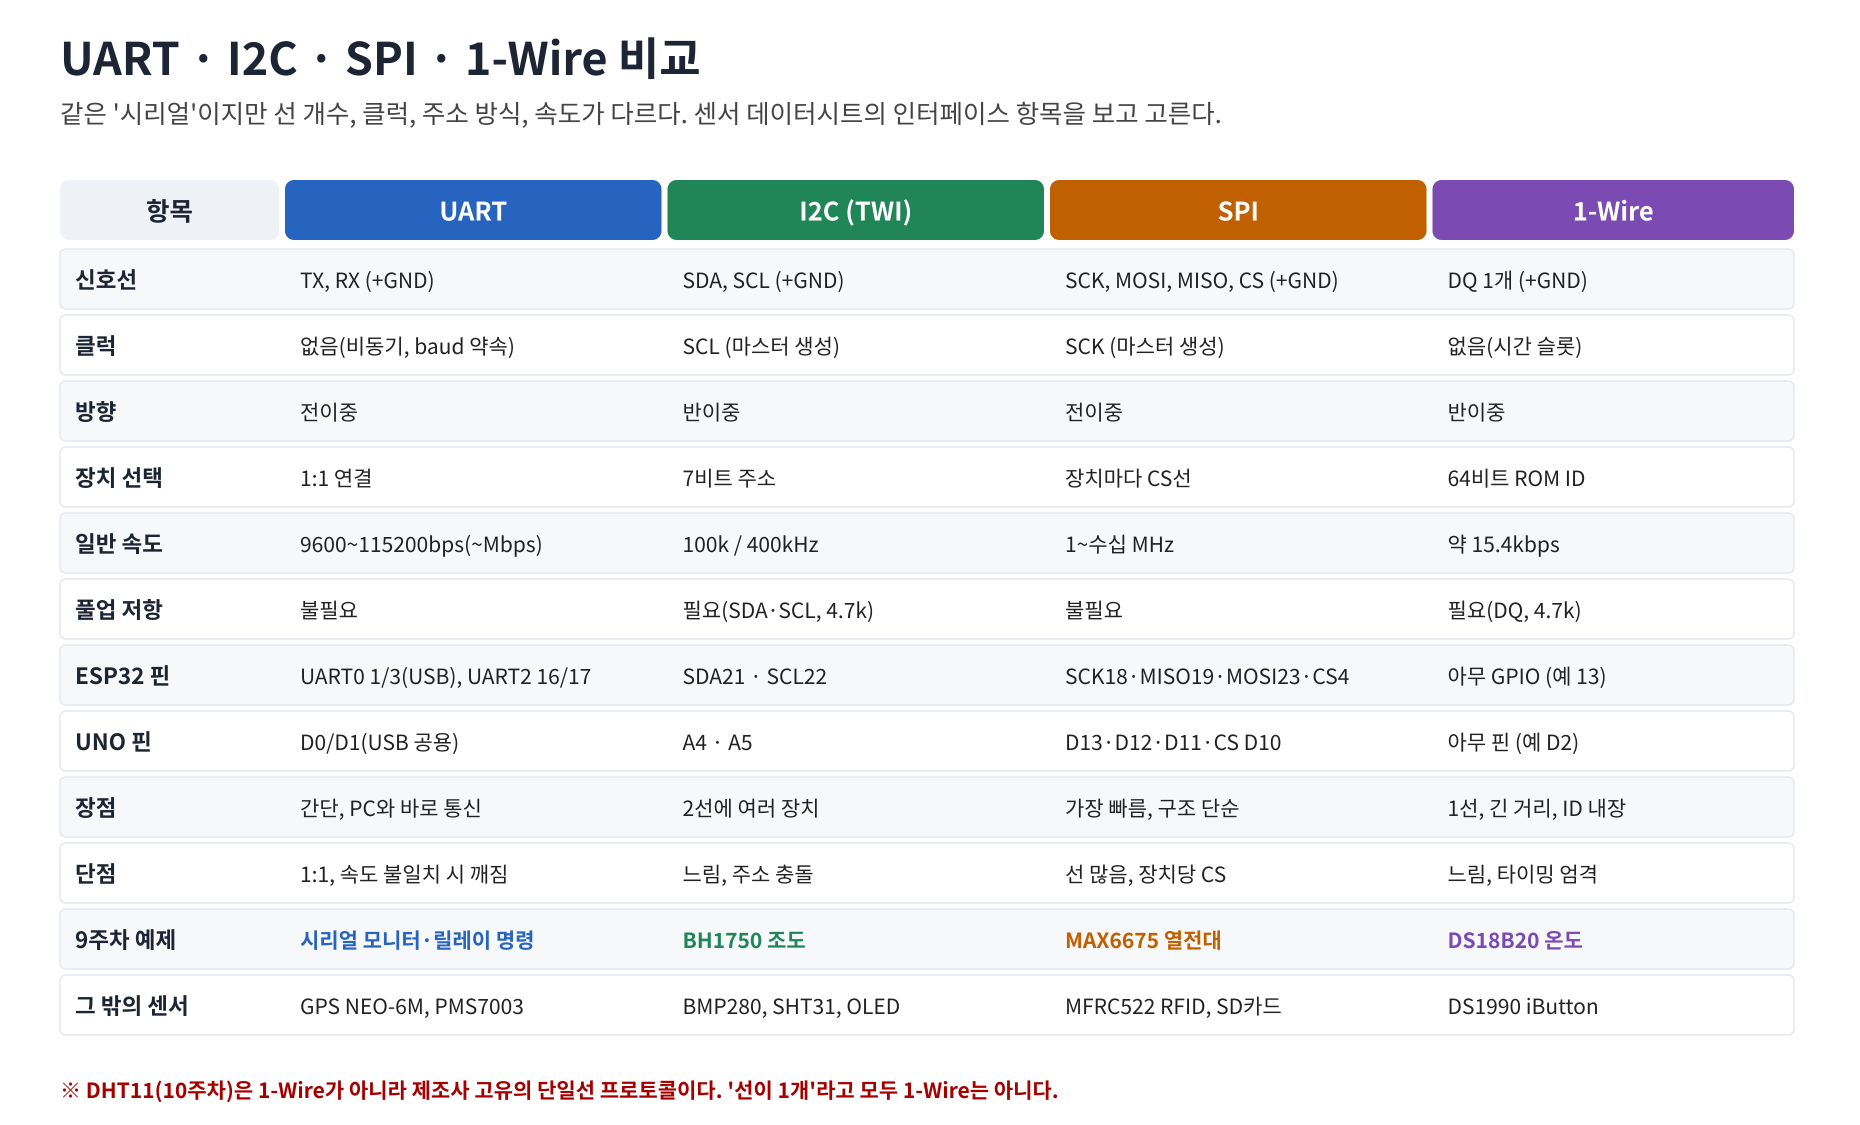
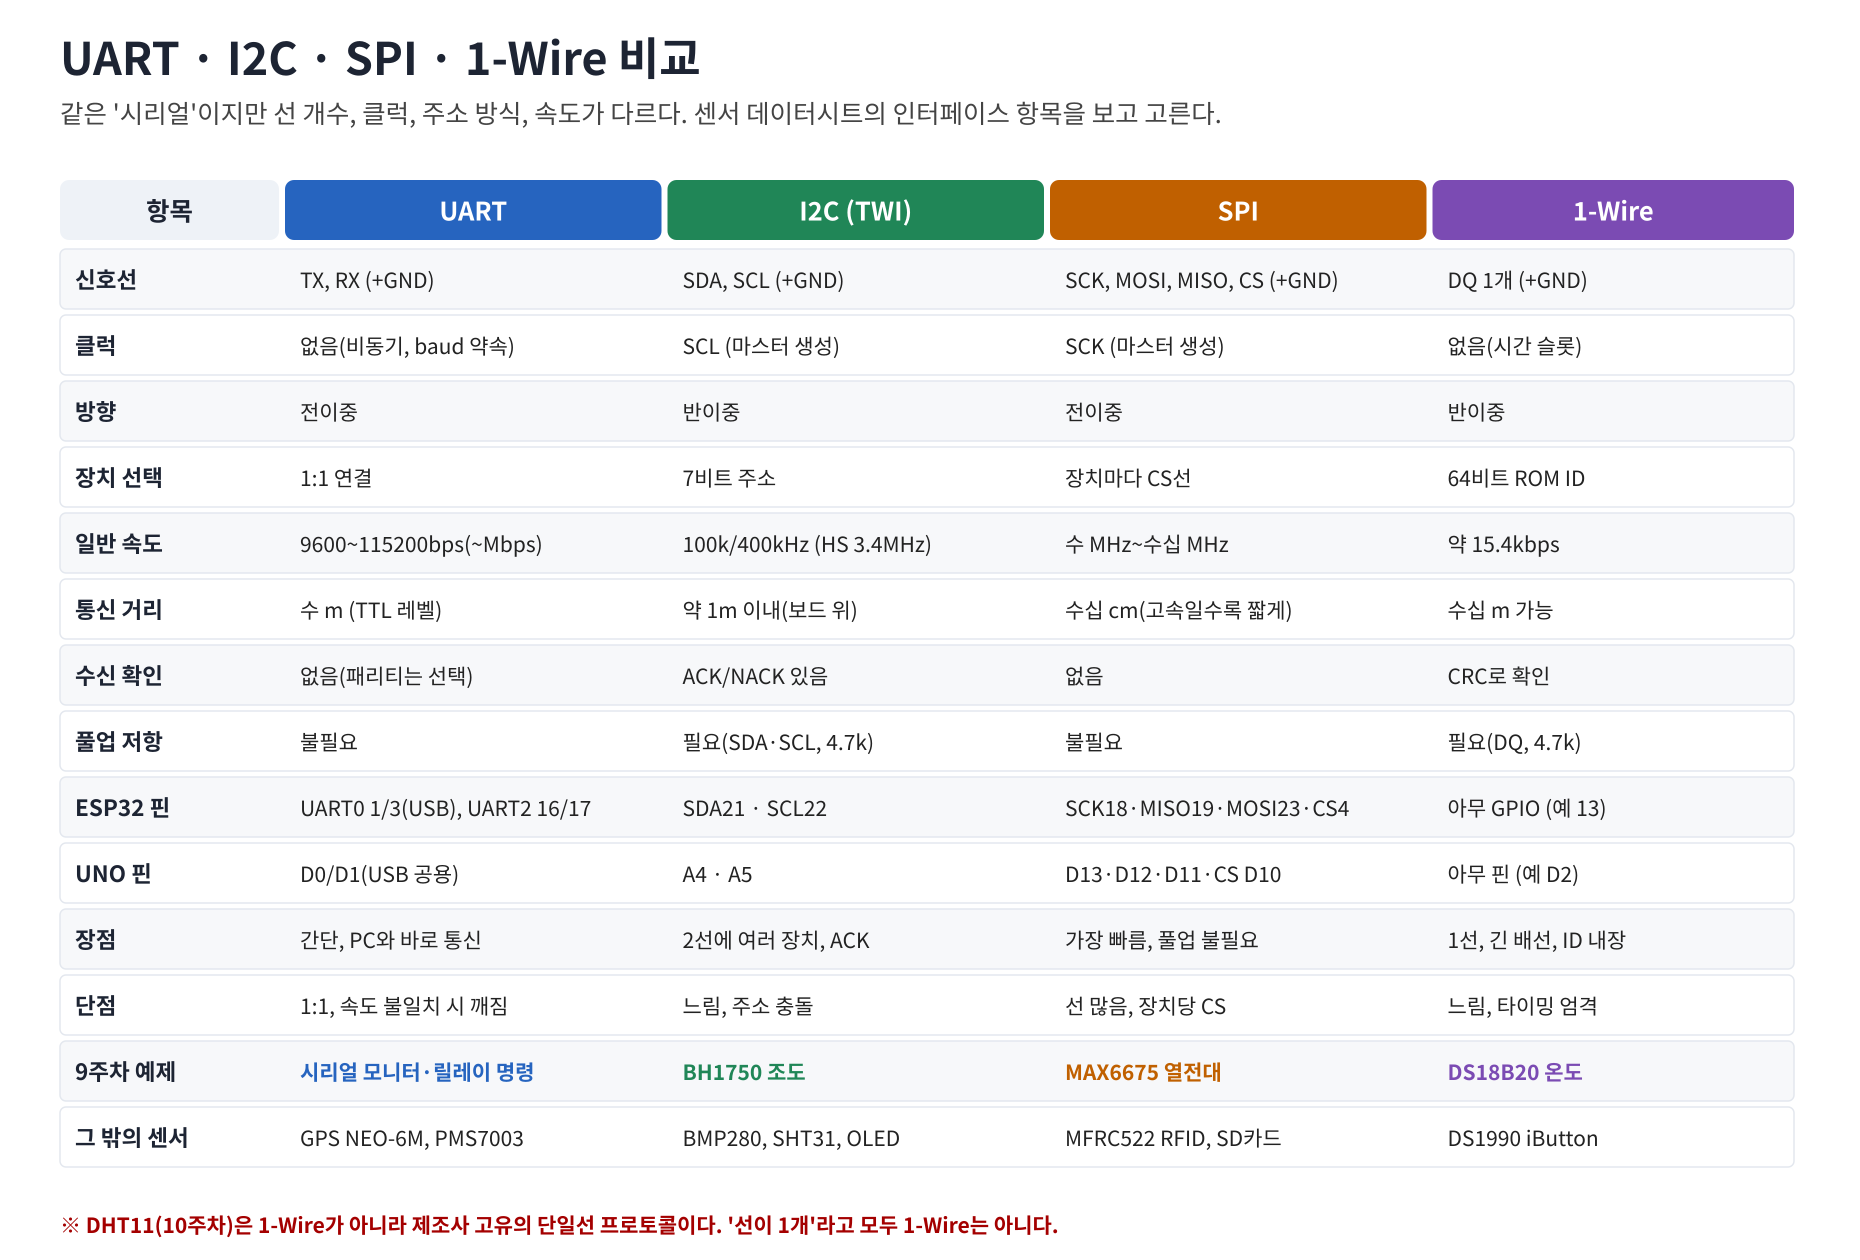
week09: 통신 방식 정리 보강 — 거리·ACK·프레임 옵션·RS-232/485·CAN·선택 기준
- 비교표(s2)에 통신 거리·수신 확인 행 추가, I2C HS 3.4MHz
- 새 그림 s7: 단일 종단 vs 차동, 물리 계층 비교, 방식 선택 기준
- 이론 Part B에 UART 효율·패리티 한계·비트뱅잉, I2C 클럭 스트레칭·속도 모드,
  SPI ACK 없음·푸시풀, 6B절(RS-232/485/CAN), 이해도 문항 4개, 참고 블로그

Claude-Session: https://claude.ai/code/session_01CsedSyxb3LpqaHMSJk71KV

diff --git a/week09/images/gen_serial.py b/week09/images/gen_serial.py
@@ -97,7 +97,7 @@ def common():
 
 # ================================================================ s2 비교표
 def compare():
-    W, H = 1240, 750
+    W, H = 1240, 840
     o = []
     title(o, "UART · I2C · SPI · 1-Wire 비교", "같은 '시리얼'이지만 선 개수, 클럭, 주소 방식, 속도가 다르다. 센서 데이터시트의 인터페이스 항목을 보고 고른다.")
     cols = [("항목", C["ink"]), ("UART", CU), ("I2C (TWI)", CI), ("SPI", CS), ("1-Wire", CW)]
@@ -106,11 +106,13 @@ def compare():
         ("클럭", "없음(비동기, baud 약속)", "SCL (마스터 생성)", "SCK (마스터 생성)", "없음(시간 슬롯)"),
         ("방향", "전이중", "반이중", "전이중", "반이중"),
         ("장치 선택", "1:1 연결", "7비트 주소", "장치마다 CS선", "64비트 ROM ID"),
-        ("일반 속도", "9600~115200bps(~Mbps)", "100k / 400kHz", "1~수십 MHz", "약 15.4kbps"),
+        ("일반 속도", "9600~115200bps(~Mbps)", "100k/400kHz (HS 3.4MHz)", "수 MHz~수십 MHz", "약 15.4kbps"),
+        ("통신 거리", "수 m (TTL 레벨)", "약 1m 이내(보드 위)", "수십 cm(고속일수록 짧게)", "수십 m 가능"),
+        ("수신 확인", "없음(패리티는 선택)", "ACK/NACK 있음", "없음", "CRC로 확인"),
         ("풀업 저항", "불필요", "필요(SDA·SCL, 4.7k)", "불필요", "필요(DQ, 4.7k)"),
         ("ESP32 핀", "UART0 1/3(USB), UART2 16/17", "SDA21 · SCL22", "SCK18·MISO19·MOSI23·CS4", "아무 GPIO (예 13)"),
         ("UNO 핀", "D0/D1(USB 공용)", "A4 · A5", "D13·D12·D11·CS D10", "아무 핀 (예 D2)"),
-        ("장점", "간단, PC와 바로 통신", "2선에 여러 장치", "가장 빠름, 구조 단순", "1선, 긴 거리, ID 내장"),
+        ("장점", "간단, PC와 바로 통신", "2선에 여러 장치, ACK", "가장 빠름, 풀업 불필요", "1선, 긴 배선, ID 내장"),
         ("단점", "1:1, 속도 불일치 시 깨짐", "느림, 주소 충돌", "선 많음, 장치당 CS", "느림, 타이밍 엄격"),
         ("9주차 예제", "시리얼 모니터·릴레이 명령", "BH1750 조도", "MAX6675 열전대", "DS18B20 온도"),
         ("그 밖의 센서", "GPS NEO-6M, PMS7003", "BMP280, SHT31, OLED", "MFRC522 RFID, SD카드", "DS1990 iButton"),
@@ -125,8 +127,9 @@ def compare():
         yy = y + 48 + i * 44
         o.append(rect(40, yy - 2, 1156, 40, "#ffffff" if i % 2 else "#f7f8fa", "#e3e7ee", 1, 4))
         for j, s in enumerate(r):
-            o.append(T(xs[j] + 10, yy + 24, s, 14 if j else 15, "bold" if j == 0 or i == 10 else "normal",
-                       [C["ink"], CU, CI, CS, CW][j] if (j == 0 or i == 10) else "#222"))
+            hl = r[0] == "9주차 예제"
+            o.append(T(xs[j] + 10, yy + 24, s, 14 if j else 15, "bold" if j == 0 or hl else "normal",
+                       [C["ink"], CU, CI, CS, CW][j] if (j == 0 or hl) else "#222"))
     o.append(T(40, H - 18, "※ DHT11(10주차)은 1-Wire가 아니라 제조사 고유의 단일선 프로토콜이다. '선이 1개'라고 모두 1-Wire는 아니다.", 14, "bold", "#a40000"))
     return "s2_serial_compare_ko.svg", svg(W, H, o)
 
@@ -335,6 +338,65 @@ def onewire():
                            "• DHT11은 1-Wire가 아니다(10주차)"]):
         o.append(T(785, 548 + i * 33, s, 14, "bold" if "DHT11" in s else "normal", "#a40000" if "DHT11" in s else "#222"))
     return "s6_onewire_protocol_ko.svg", svg(W, H, o)
+
+
+# ================================================================ s7 물리 계층 확장·선택 기준
+def physical():
+    W, H = 1240, 870
+    o = []
+    title(o, "UART를 멀리 보내기 — TTL · RS-232 · RS-485, 그리고 CAN · 방식 선택 기준",
+          "UART는 '데이터 형식(프레임)'이고, RS-232·RS-485는 그 신호를 멀리 보내는 '전기 규격(물리 계층)'이다. CAN은 차동 2선 위의 메시지 버스.")
+    # 단일 종단 vs 차동
+    card(o, 40, 110, 560, 330, "① 단일 종단(Single-ended) vs 차동(Differential)", C["ink"])
+    import math
+    def noisy(x0, y, bits, col, invert=False, noise=True, w=56, h=46):
+        pts = []
+        for i, b in enumerate(bits):
+            b = 1 - b if invert else b
+            for k in range(8):
+                x = x0 + i * w + k * w / 8
+                n = 9 * math.sin((x - x0) / 9.0) if noise else 0
+                pts.append((x, y - (h / 2 if b else -h / 2) + n))
+        o.append(line(pts, col, 2.5, cap="butt"))
+    bits = [1, 0, 1, 1, 0, 1, 0, 0]
+    o.append(T(70, 175, "단일 종단(TTL UART, RS-232): 신호 − GND", 14, "bold", CU))
+    noisy(80, 220, bits, CU)
+    o.append(T(70, 270, "→ 잡음이 그대로 신호에 더해진다", 13, fill="#555"))
+    o.append(T(70, 305, "차동(RS-485, CAN): A − B 두 선의 차이", 14, "bold", CI))
+    noisy(80, 345, bits, CI); noisy(80, 345, bits, "#c06000", invert=True)
+    o.append(T(70, 405, "→ 두 선에 같은 잡음이 들어와도 A−B에서 상쇄(공통 모드 제거)", 13, fill="#555"))
+    o.append(T(70, 428, "   꼬임선(Twisted pair) + 양 끝 120Ω 종단 저항", 13, fill="#555"))
+    # 표
+    card(o, 620, 110, 580, 330, "② 물리 계층 비교", C["ink"])
+    rows = [("", "TTL UART", "RS-232", "RS-485", "CAN"),
+            ("신호", "0/3.3V·5V", "±3~15V 역논리", "차동 A/B", "차동 H/L"),
+            ("구조", "1:1", "1:1", "다중(32대)", "다중 마스터"),
+            ("거리", "수 m", "약 15m", "약 1200m", "40m@1M"),
+            ("속도", "~Mbps", "~115kbps", "~10Mbps(단거리)", "1M(FD 8M)"),
+            ("칩", "직결", "MAX3232", "MAX485", "SN65HVD230"),
+            ("용도", "센서·디버그", "PLC·구형 장비", "Modbus·산업", "자동차·로봇")]
+    xs = [640, 700, 820, 940, 1070]
+    for i, r in enumerate(rows):
+        y = 170 + i * 38
+        if i == 0: o.append(rect(632, y - 22, 560, 30, "#eef2f7", "none", 0, 4))
+        for j, t in enumerate(r):
+            o.append(T(xs[j], y, t, 13, "bold" if i == 0 or j == 0 else "normal", C["ink"]))
+    o.append(T(640, 432, "ESP32: UART2+MAX3485(RS-485), 내장 TWAI+트랜시버(CAN)", 12, fill="#555"))
+    # 선택 기준
+    card(o, 40, 460, 1160, 380, "③ 어떤 방식을 고를까 — 정답은 '데이터시트가 지원하는 것' + 아래 기준", C["ink"])
+    choices = [("속도가 최우선(화면·SD·고속 ADC)", "SPI", CS), ("핀을 아끼며 저속 센서 여러 개", "I2C", CI),
+               ("PC·모듈과 1:1, 디버그 출력", "UART", CU), ("센서 여러 개를 긴 선 하나로(온도)", "1-Wire", CW),
+               ("수십~수백 m, 산업 현장 다수 장치", "RS-485", "#555"), ("실시간·고신뢰 다중 노드(차량)", "CAN", "#555")]
+    for i, (q, a, col) in enumerate(choices):
+        y = 552 + i * 50
+        o.append(rect(70, y - 26, 560, 40, "#fff", "#c9ced6", 1.5, 8)); o.append(T(90, y, q, 15))
+        o += arrow(640, y - 6, 700, y - 6, "#333", 2.5)
+        o.append(rect(710, y - 26, 130, 40, col, "none", 0, 8)); o.append(T(775, y, a, 16, "bold", "white", "middle"))
+    for i, t in enumerate(["• 실제 제품은 여러 방식을 섞어 쓴다", "  (예: I2C 센서 + SPI 화면 + UART GPS)",
+                           "• I2C로 큰 화면을 빠르게 갱신하려다", "  속도 한계로 실패하는 경우가 흔하다",
+                           "• 거리가 늘면 속도를 낮추거나", "  차동 규격으로 바꾼다"]):
+        o.append(T(880, 552 + i * 30, t, 14, "bold" if t.startswith("•") else "normal"))
+    return "s7_physical_layer_selection_ko.svg", svg(W, H, o)
 
 
 # ================================================================ 연결도 공통
@@ -557,7 +619,7 @@ def w_ow():
 
 if __name__ == "__main__":
     os.makedirs(OUT, exist_ok=True)
-    for f in (common, compare, uart, i2c, spi, onewire, lambda: w_relay("esp32"), lambda: w_relay("uno"), w_loopback, w_i2c, w_spi, w_ow):
+    for f in (common, compare, physical, uart, i2c, spi, onewire, lambda: w_relay("esp32"), lambda: w_relay("uno"), w_loopback, w_i2c, w_spi, w_ow):
         n, s = f()
         open(os.path.join(OUT, n), "w", encoding="utf-8").write(s)
         print(n)

diff --git a/week09/theory/02_serial_comm.md b/week09/theory/02_serial_comm.md
@@ -33,7 +33,10 @@
 | 항목 | UART | I2C | SPI | 1-Wire |
 |---|---|---|---|---|
 | 신호선 | TX, RX | SDA, SCL | SCK, MOSI, MISO, CS | DQ |
-| 일반 속도 | 9600~115200bps (최대 수 Mbps) | 100k / 400kHz | 1~수십 MHz | 약 15.4kbps |
+| 일반 속도 | 9600~115200bps (최대 수 Mbps) | 100k / 400kHz (High-speed 3.4MHz) | 수 MHz~수십 MHz | 약 15.4kbps |
+| 통신 거리 | 수 m (TTL 레벨) | 약 1m 이내 | 수십 cm (고속일수록 짧게) | 수십 m 가능 |
+| 수신 확인 | 없음 (패리티는 선택, 1비트 오류만 검출) | ACK/NACK | 없음 | CRC |
+| 출력 구조 | 푸시풀 | 오픈 드레인 + 풀업 | 푸시풀(풀업 불필요) | 오픈 드레인 + 풀업 |
 | 연결 구조 | 1:1 | 버스, 최대 100여 개 | 버스 + 장치별 CS | 버스, 개수 제한 거의 없음 |
 | 장점 | 간단, PC와 바로 통신 | 2선으로 여러 장치 | 가장 빠름 | 1선, 긴 배선, ID 내장 |
 | 단점 | 1:1, baud 불일치 시 오류 | 느림, 주소 충돌, 짧은 거리 | 선이 많음 | 느림, 타이밍 엄격 |
@@ -50,6 +53,10 @@
 
 - 쉬는 상태 HIGH → **START 비트(LOW)** → 데이터 8비트(**LSB 먼저**) → (패리티) → **STOP 비트(HIGH)**. 이것을 **8N1**이라 한다.
 - 1비트 시간 = 1/baud. 115200bps → 8.68µs, 프레임 10비트 → 초당 약 11,520바이트.
+- 프레임 옵션: 데이터 5~8비트, 패리티 None/Even/Odd, 정지 비트 1/1.5/2. 8N1은 10비트 중 8비트가 데이터 → **효율 약 80%**.
+- 패리티는 1의 개수만 보므로 1비트 오류만 검출한다(2비트 오류는 못 찾음). 수신 확인(ACK)도 없다 → 필요하면 응답 메시지(`OK`, `ERR`)를 프로토콜로 만든다(워크북 5).
+- 하드웨어 UART가 없어도 GPIO를 직접 켜고 끄는 **비트 뱅잉**(UNO의 SoftwareSerial)으로 구현할 수 있다.
+- 쓰임: 디버그 출력, GPS(NMEA 문장), 블루투스·Wi-Fi·LoRa 모듈(AT 명령), USB-시리얼 변환.
 - 연결: **TX → 상대 RX, RX ← 상대 TX** (교차), GND 공통. 전압 레벨이 다르면(5V↔3.3V, RS-232 ±12V) 직결 금지.
 - 시리얼 모니터 경로: PC 앱 ⇄ USB ⇄ USB-UART 브리지 ⇄ UART0(GPIO1/3) ⇄ ESP32.
   - `Serial.print()` = 송신, `Serial.available()`/`Serial.read()` = 수신.
@@ -62,7 +69,12 @@
 
 - SDA(데이터)·SCL(클럭) 두 선에 여러 장치를 병렬로 연결한다. 선은 **풀업 저항**(보통 4.7kΩ, 모듈에 내장)이 HIGH로 당기고, 장치는 LOW로만 끌어내린다(오픈 드레인).
 - 순서: **START**(SCL=H일 때 SDA↓) → 7비트 **주소** + R/W → **ACK**(받는 쪽이 SDA LOW) → 데이터 바이트 + ACK … → **STOP**(SCL=H일 때 SDA↑).
-- 같은 주소의 장치가 둘이면 충돌 → ADDR 핀으로 주소를 바꾼다(BH1750: 0x23 ↔ 0x5C).
+- 같은 주소의 장치가 둘이면 충돌 → ADDR 핀으로 주소를 바꾼다(BH1750: 0x23 ↔ 0x5C). 주소는 7비트가 일반적이며 10비트 주소 모드도 있다.
+- 속도 모드: Standard 100kHz, Fast 400kHz, (Fast-mode Plus 1MHz), High-speed 3.4MHz — 실제 사용 속도는 MCU와 센서가 함께 지원하는 값.
+- **클럭 스트레칭**: 슬레이브가 준비되지 않으면 SCL을 LOW로 붙잡아 마스터를 기다리게 한다.
+- **멀티 마스터** 구성도 규격상 가능하다(중재 기능).
+- 버스 길이·장치 수가 늘면 선의 정전 용량이 커져 상승 에지가 느려진다 → 보드 위 약 1m 이내, 길어지면 속도를 낮추거나 풀업을 조정한다.
+- 쓰임: 온습도·기압·조도 센서, RTC, EEPROM, 소형 OLED.
 - Arduino `Wire`: `beginTransmission(addr)` → `write()` → `endTransmission()`(0이면 ACK) / `requestFrom(addr, n)` → `read()`.
 
 ## 5. SPI — 4선 고속 동기식
@@ -74,6 +86,9 @@
 - 클럭 1번에 1비트를 동시에 주고받는 **전이중**. 수 MHz~수십 MHz로 가장 빠르다.
 - **모드 0~3**: 클럭 극성(CPOL)과 읽는 에지(CPHA)의 조합. 데이터시트의 모드를 `SPISettings`에 맞춘다(MAX6675 = 모드 0).
 - ESP32 VSPI 기본 SS는 GPIO5(부팅 스트랩 핀) → 9주차는 CS로 GPIO4를 쓴다(CS는 아무 출력 GPIO 가능).
+- 출력이 푸시풀이라 풀업이 필요 없고 버스 충돌이 없다. 대신 **ACK가 없어** 장치가 없어도 0x00/0xFF를 '읽어 버린다' → 예제 7에서 0x0000/0xFFFF를 오류로 처리하는 이유.
+- 제조사마다 모드·비트 순서·CS 타이밍이 조금씩 달라 데이터시트 확인이 필수다.
+- 쓰임: TFT LCD, SD카드, SPI 플래시, 고속 ADC/DAC, IMU.
 
 ## 6. 1-Wire — 1선 버스, 64비트 ID
 
@@ -84,6 +99,37 @@
 - 장치마다 공장에서 정해진 **64비트 ROM ID**(패밀리 코드 + 일련번호 + CRC) → 한 선에 여러 개 연결해도 구별된다.
 - 명령 흐름: RESET → ROM 명령(0x55 MATCH ROM+ID 또는 0xCC SKIP ROM) → 기능 명령(DS18B20: 0x44 변환, 0xBE 읽기) → 데이터 + CRC.
 - 타이밍이 µs 단위로 엄격하므로 `OneWire` 라이브러리가 비트 단위 처리를 맡고, 예제는 바이트 명령을 직접 보낸다.
+
+## 6B. UART를 멀리 보내기 — RS-232 · RS-485, 그리고 CAN (확장 지식)
+
+![물리 계층과 선택 기준](../images/s7_physical_layer_selection_ko.png)
+
+UART는 **데이터 형식(프레임)**이고, RS-232·RS-485는 그 신호를 멀리 보내는 **전기 규격(물리 계층)**이다. 보드의 TX/RX(TTL 레벨)를 변환 칩으로 바꿔 쓴다.
+
+| 항목 | TTL UART | RS-232 | RS-485 | CAN |
+|---|---|---|---|---|
+| 신호 | 0V / 3.3V·5V, 단일 종단 | 약 ±3~±15V, 단일 종단, **역논리**(음전압=1) | 차동 A/B (A−B ≥ +200mV=1) | 차동 CAN_H/CAN_L, 우성(0)/열성(1) |
+| 구조 | 1:1 | 1:1 | 멀티 드롭, 기본 32대 | 멀티 마스터, 메시지 ID 기반 |
+| 거리·속도 | 수 m | 약 15m, ~115kbps | 약 1200m(저속) / 단거리 ~10Mbps | 약 40m@1Mbps, 약 1km@50kbps |
+| 배선 | 3선 | 3선(+핸드셰이크 RTS/CTS 등), DB9 | 꼬임선 2선(반이중) 또는 4선, 양 끝 120Ω | 꼬임선 2선, 양 끝 120Ω |
+| 변환 칩 예 | 직결 | MAX3232 | MAX485/MAX3485 | SN65HVD230(3.3V) |
+| 상위 프로토콜·용도 | 디버그, 센서 모듈 | PLC·CNC·장비 콘솔 | Modbus RTU, 인버터, 빌딩·농업 센서 | 자동차 ECU, OBD-II, CANopen, 로봇 |
+
+- **차동 신호**: 두 선에 같은 잡음이 들어와도 A−B 차이에서 상쇄된다(공통 모드 제거) → 먼 거리·공장 환경에 강하다.
+- **CAN**: 0(우성)이 1(열성)을 이기는 성질로 ID가 작은 메시지가 충돌 없이 우선 전송된다(비트 단위 중재). 같은 비트 5개 연속 시 반대 비트를 끼우는 비트 스터핑, 자동 재전송 기능이 있다. 데이터는 CAN 2.0 최대 8바이트, CAN FD 최대 64바이트.
+- ESP32는 CAN 컨트롤러(TWAI)를 내장해 트랜시버만 달면 되고, UNO는 MCP2515(SPI) 모듈이 필요하다. RS-485는 ESP32 UART2에 MAX3485를 연결한다. (9주차는 개념만, 실습은 확장 과제)
+
+### 방식 선택 기준
+| 상황 | 선택 |
+|---|---|
+| 속도 최우선(화면, SD카드, 고속 ADC) | SPI |
+| 핀을 아끼며 저속 센서 여러 개 | I2C |
+| PC·모듈과 1:1, 디버그 | UART |
+| 센서 여러 개를 긴 선 하나로(온도) | 1-Wire |
+| 수십~수백 m, 산업 현장 다수 장치 | RS-485 |
+| 실시간·고신뢰 다중 노드(차량·로봇) | CAN |
+
+완벽한 방식은 없고 실제 제품은 여러 방식을 섞어 쓴다(예: I2C 센서 + SPI 화면 + UART GPS). 예컨대 I2C로 큰 화면을 빠르게 갱신하려다 속도 한계로 실패하는 일이 흔하다 — 데이터 양과 거리를 먼저 따진다.
 
 ## 7. 9주차 시리얼 예제 목록
 
@@ -106,8 +152,14 @@
 6. 1-Wire에서 여러 센서를 한 선에 연결해도 구별되는 이유는?
 7. DHT11이 1-Wire가 아닌 이유는?
 8. 시리얼 모니터에서 `ON`을 보냈는데 반응이 없다. 확인할 설정 두 가지는? (baud, 줄 끝)
+9. 8N1 UART의 전송 효율은? 패리티가 찾지 못하는 오류는?
+10. SPI에는 ACK가 없다. 센서가 빠져도 값이 '읽히는' 이유와 코드에서 대처하는 방법은?
+11. UART와 RS-485의 관계를 '프레임'과 '물리 계층'으로 설명하라. RS-485가 먼 거리에 강한 이유는?
+12. 다음 상황에 알맞은 방식은? ① 2.4인치 TFT 화면 ② 온실 20개 지점 온도 ③ 공장 300m 떨어진 장비 ④ GPS 모듈
 
 ## 참고
+- 통신 방식 정리(참고 블로그): https://doyun98.tistory.com/127 — I2C·SPI·UART·RS-232·RS-485·CAN 비교, 선택 기준
+- 통신 방식 정리(참고 블로그): https://m.blog.naver.com/crucian2k3/222642389070 — (작성 환경에서 접근 불가, 수업 전 교수자 확인)
 - Arduino Serial: https://docs.arduino.cc/language-reference/en/functions/communication/serial/
 - Arduino Wire: https://docs.arduino.cc/language-reference/en/functions/communication/wire/
 - Arduino SPI: https://docs.arduino.cc/language-reference/en/functions/communication/SPI/
